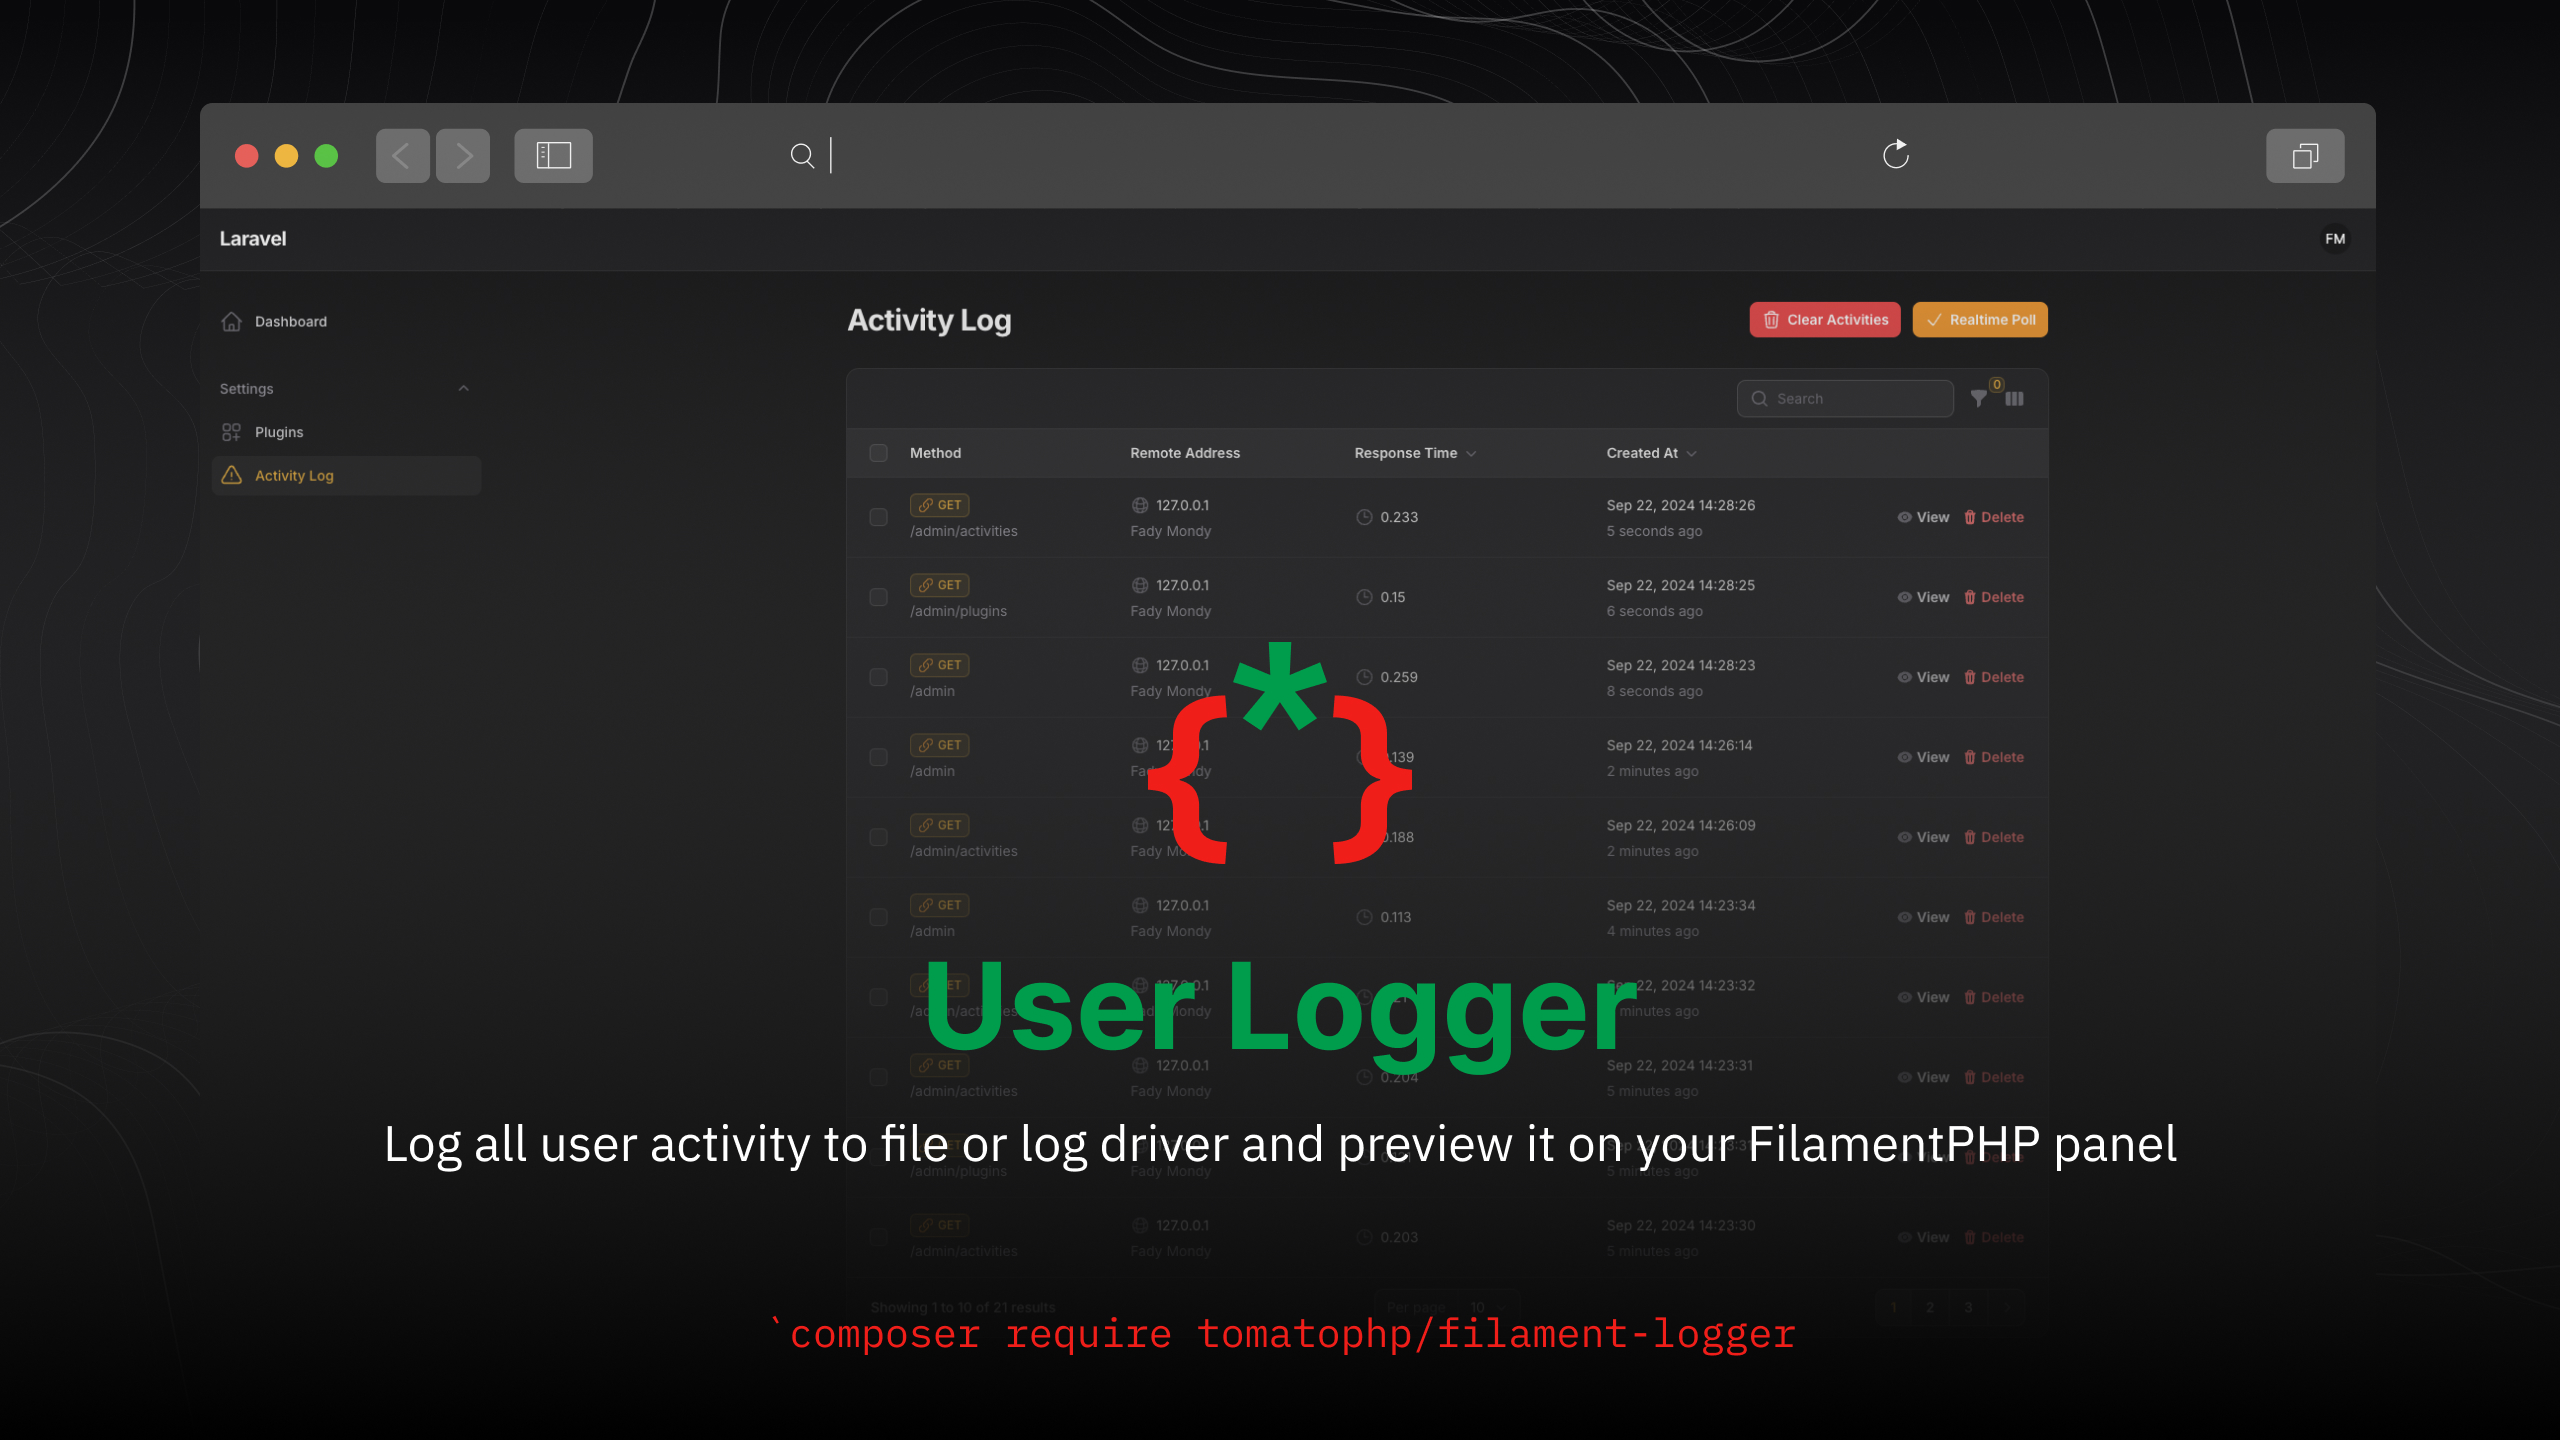
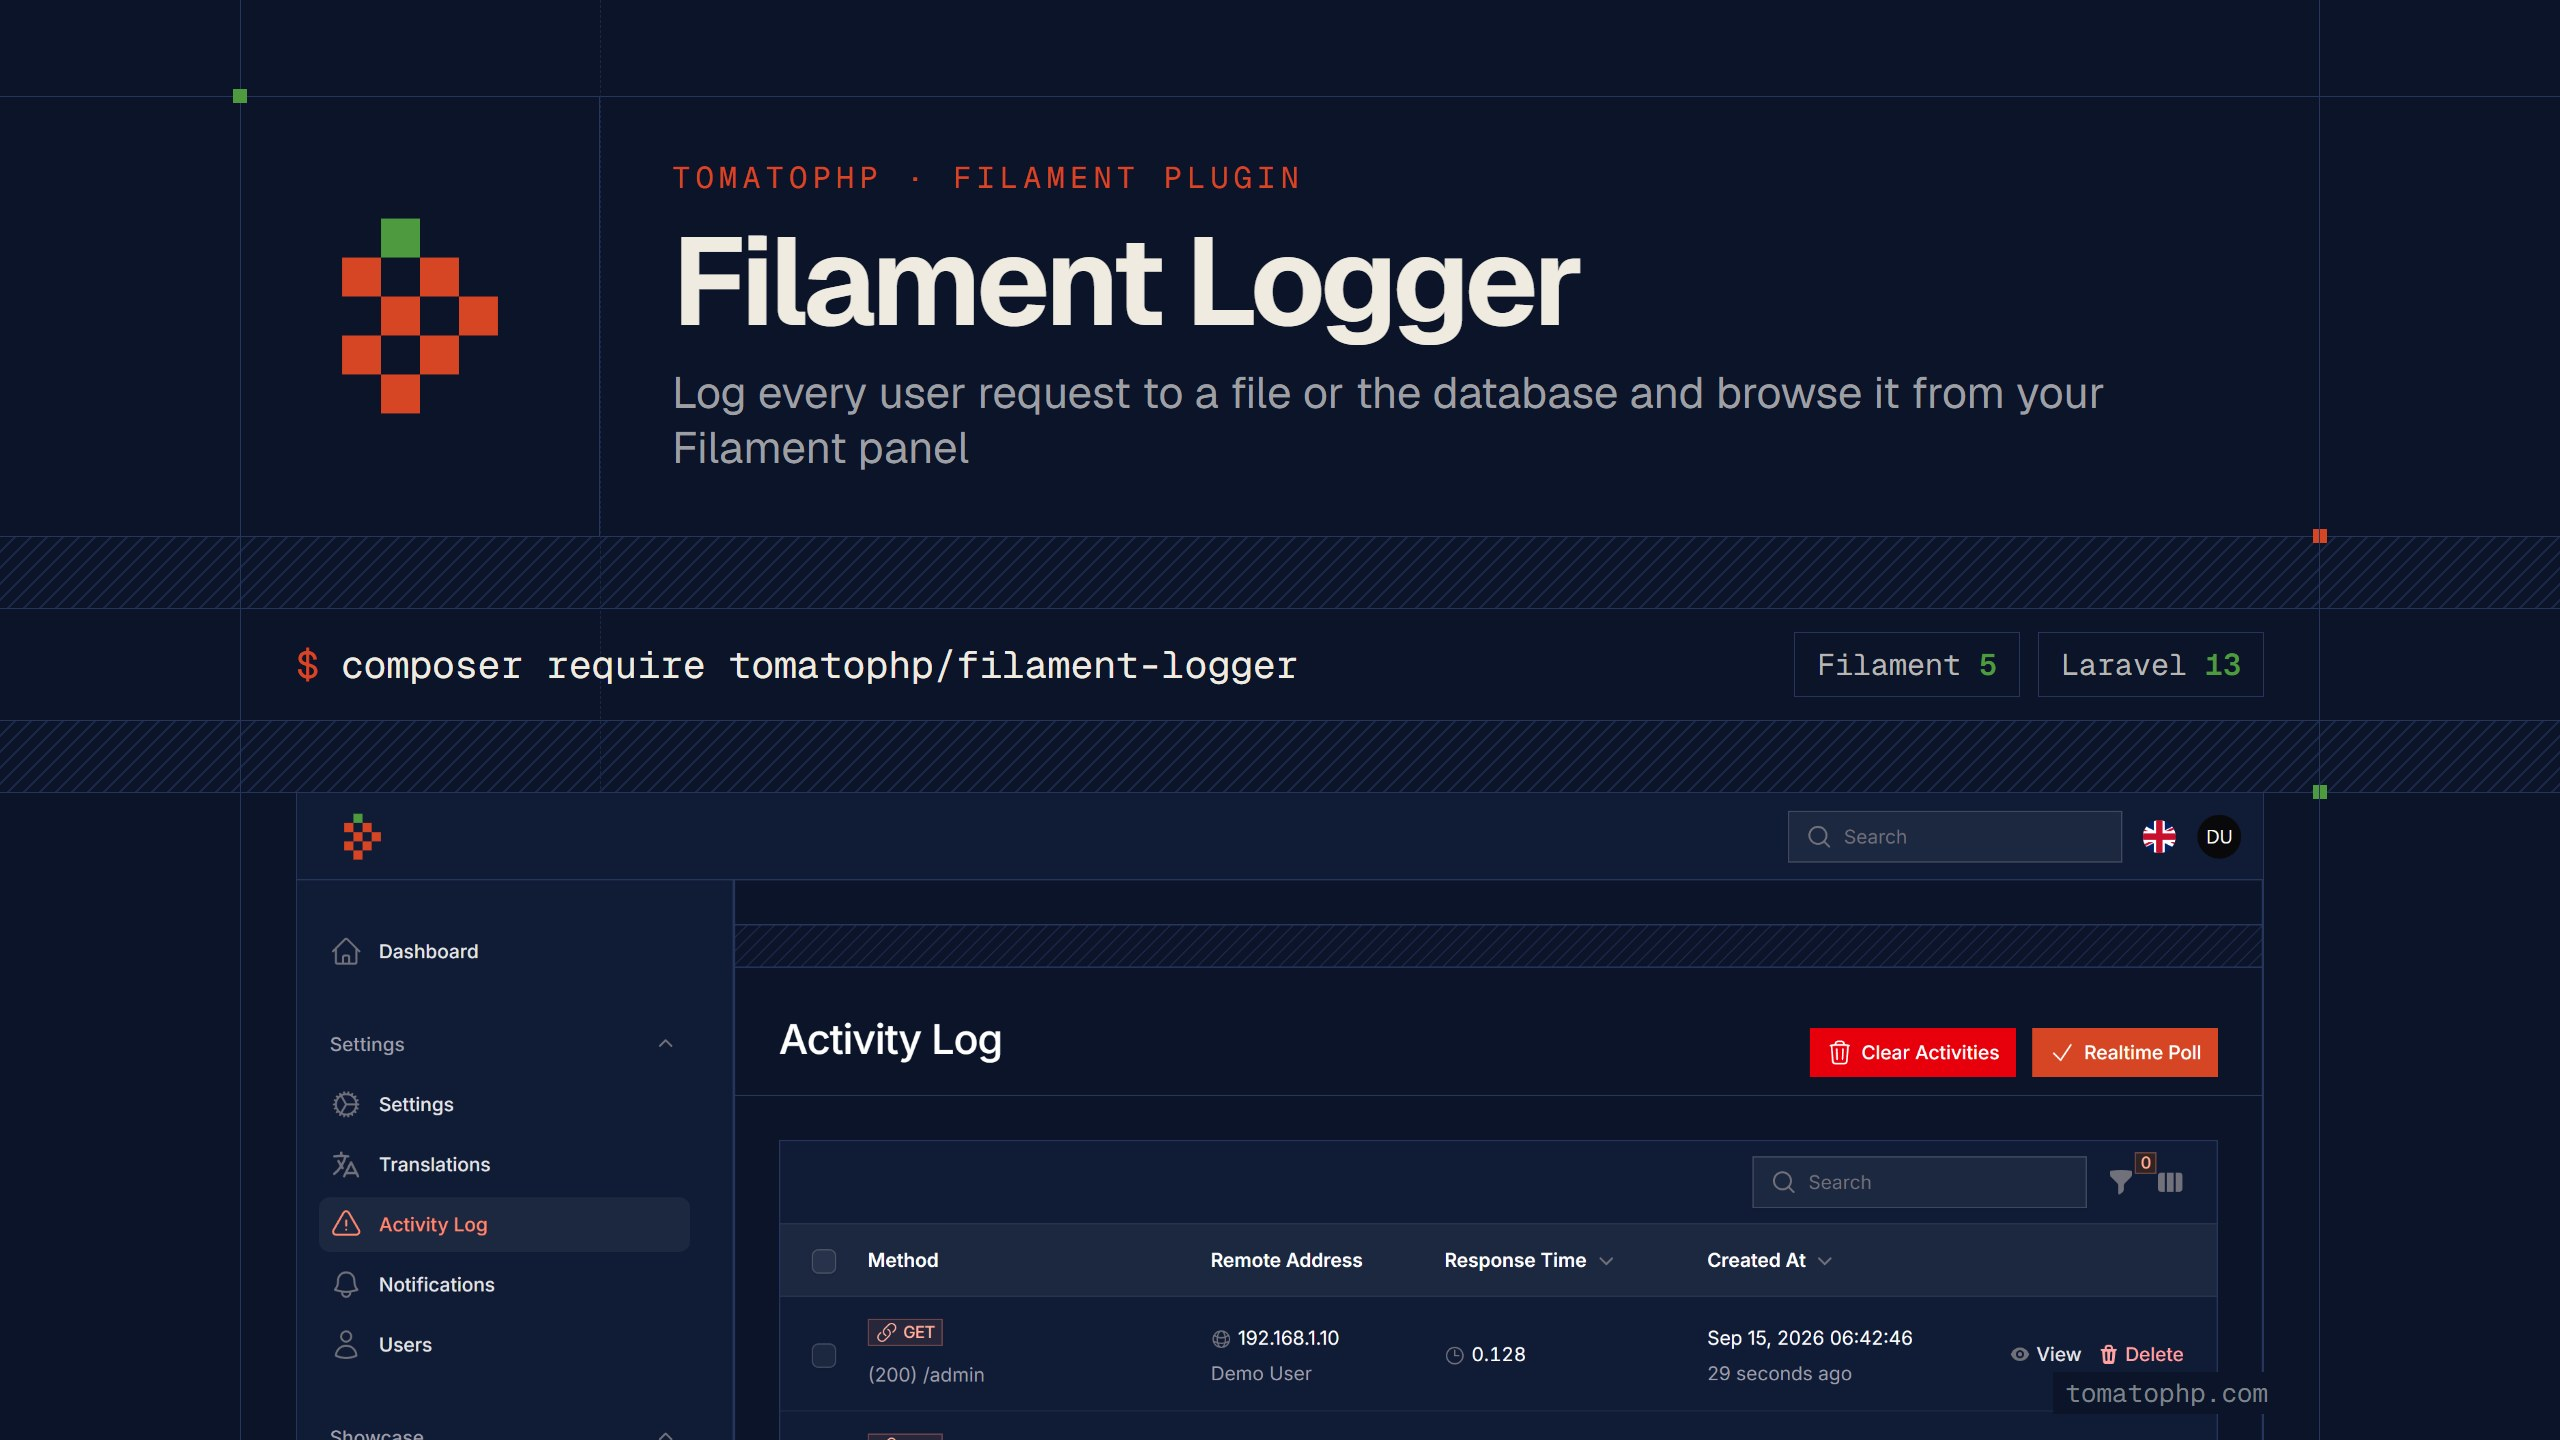
Refresh the cover, screenshots and docs for v5

diff --git a/README.md b/README.md
@@ -10,8 +10,10 @@ Log all user activity to file or log driver and preview it on your FilamentPHP p
 
 ## Screenshots
 
-![Logger](https://raw.githubusercontent.com/tomatophp/filament-logger/master/arts/logger.png)
-![View Log](https://raw.githubusercontent.com/tomatophp/filament-logger/master/arts/view-log.png)
+![Activity Log](https://raw.githubusercontent.com/tomatophp/filament-logger/master/arts/activities-light.png)
+![Activity Log Dark](https://raw.githubusercontent.com/tomatophp/filament-logger/master/arts/activities-dark.png)
+![View Activity](https://raw.githubusercontent.com/tomatophp/filament-logger/master/arts/view-activity-light.png)
+![View Activity Dark](https://raw.githubusercontent.com/tomatophp/filament-logger/master/arts/view-activity-dark.png)
 ![Log File](https://raw.githubusercontent.com/tomatophp/filament-logger/master/arts/log-file.png)
 
 ## Version Compatibility
@@ -64,6 +66,11 @@ to track your panel
 ```
 
 where `admin` is the id of the panel.
+
+## Upgrading from 1.x
+
+- `TomatoPHP\FilamentLogger\EventServiceProvider` was removed; the package subscribes its request listener itself. If you worked around the duplicate verification emails (#5) with a custom provider or `dont-discover`, remove it.
+- Run `php artisan migrate` after updating.
 
 ## Using
 

diff --git a/CHANGELOG.md b/CHANGELOG.md
@@ -1,7 +1,14 @@
 # v5.0.0
 
 - Requires `filament/filament` ^5.0 (Livewire 4)
-- Supports Laravel 12 and 13, PHP 8.2+
+- Supports Laravel 12 and 13, PHP 8.2+ (#4, thanks to the community PR #6)
 - Activity resource ported to the Filament v5 schema / actions APIs
+- Eager load the activity causer on the table (#1)
+- "Clear Activities" deletes rows instead of `TRUNCATE`, which failed inside a MySQL transaction (#3)
+- The request listener is subscribed directly; `TomatoPHP\FilamentLogger\EventServiceProvider` is removed because extending the framework provider registered the email verification listener twice (#5). Remove any workaround you added for it.
+- Livewire 4 update requests are recognised again, so `request.livewire => false` keeps them out of the log
+- `FilamentLogger::log()` works on servers without `REDIRECT_STATUS` (nginx, `artisan serve`)
+- `filament-logger:install` runs the migrations in-process
+- Translations publish to `lang_path('vendor/filament-logger')`
 - Added a Pest test suite and CI for PHP 8.3 / 8.4 on Laravel 12 / 13
 - The Filament v3 line continues on the `v3` branch
